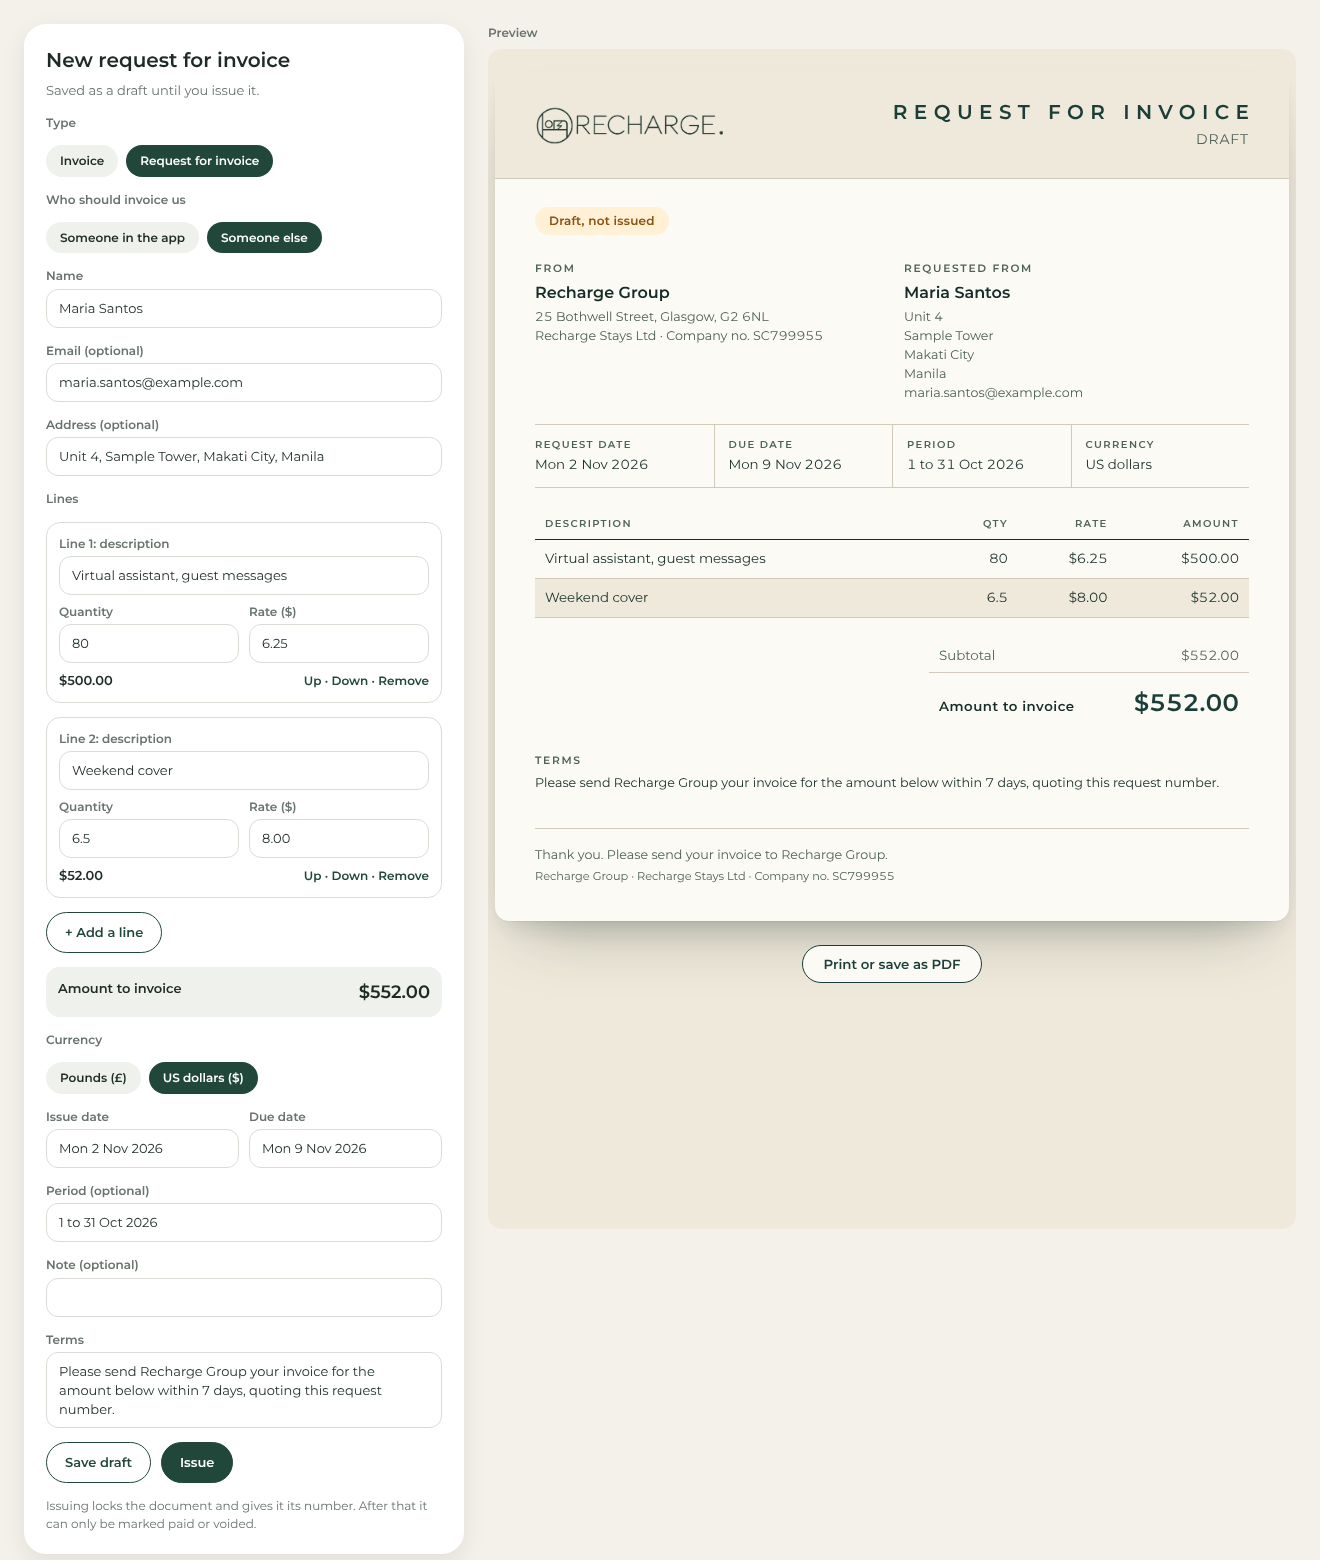
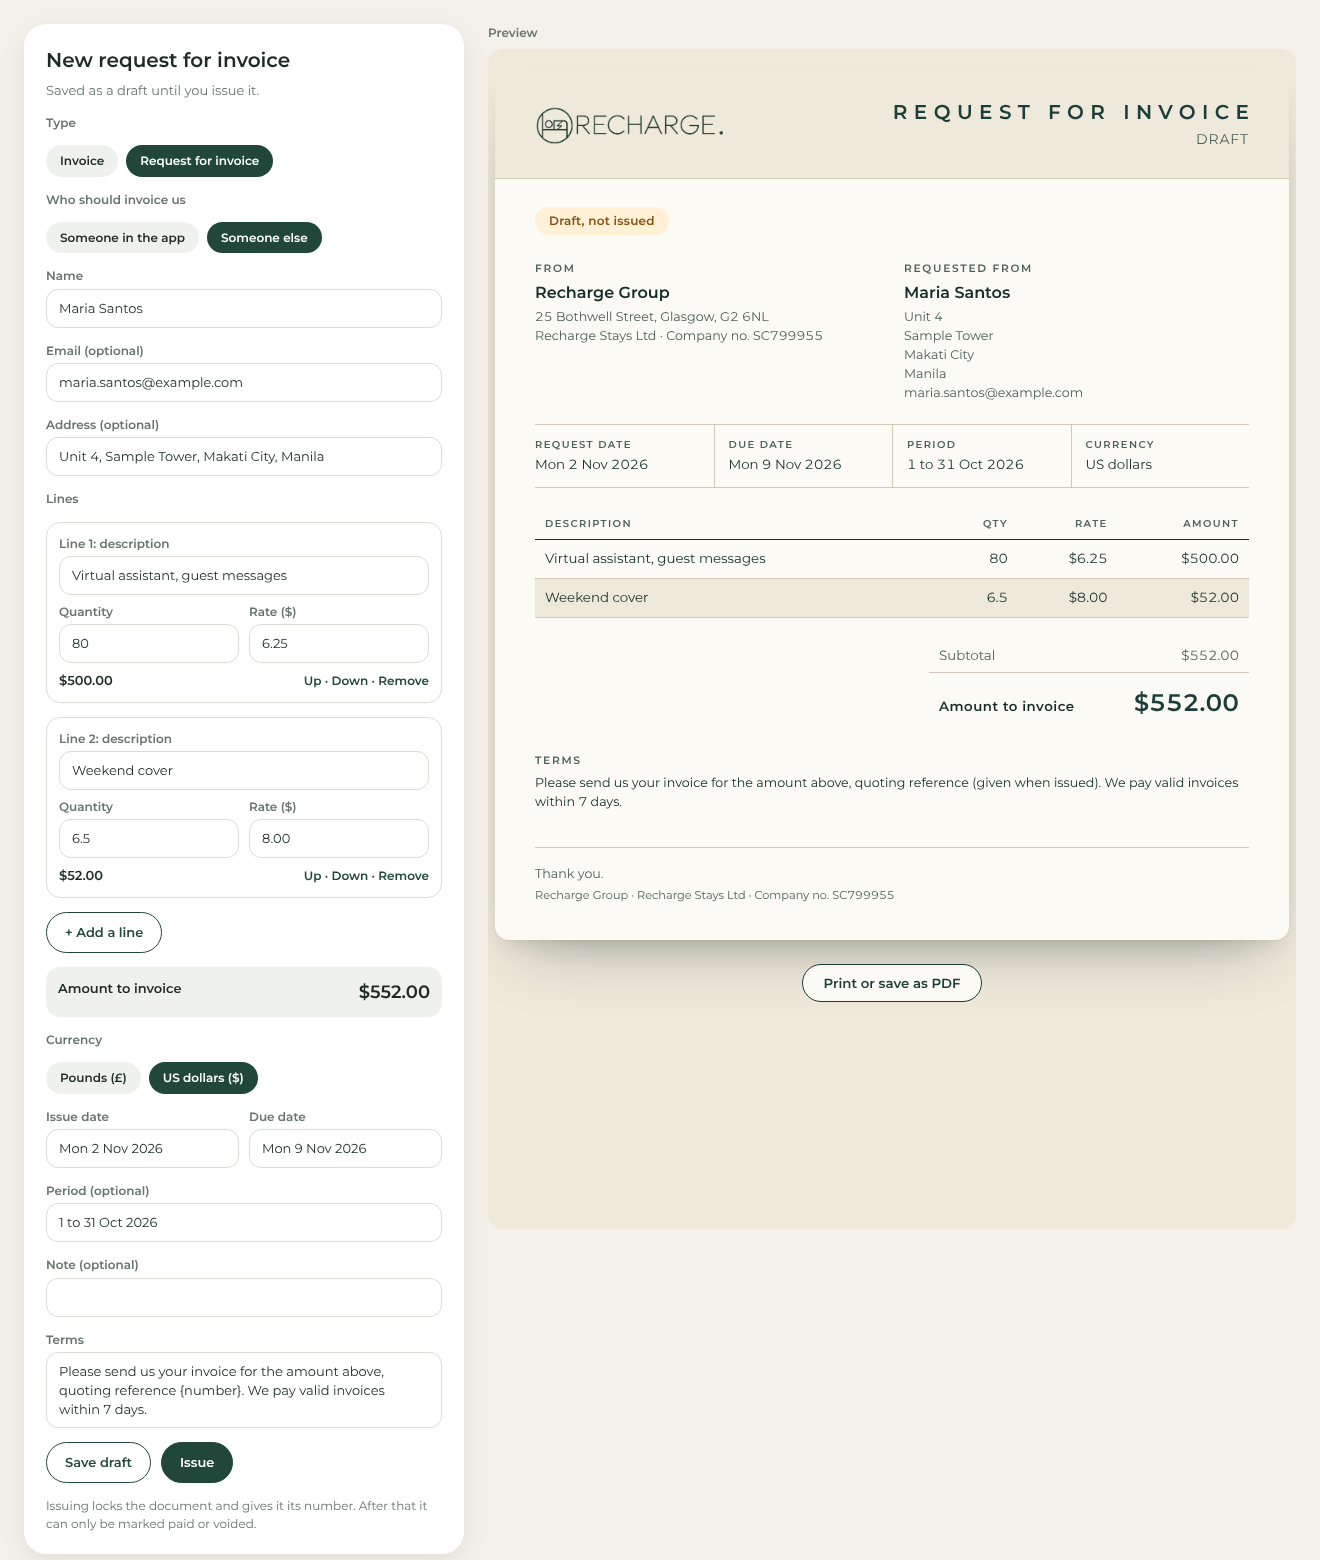
Request for invoice: cleaner wording and one RC-RFI counter
- A maker request for invoice uses the cleaner requests' terms exactly
  (REQUEST_TERMS from lib/cleaner-invoices.ts), with its own number; a
  draft reads "(given when issued)". The thanks line is just "Thank you."
- RC-RFI numbers for maker requests come from the cleaners' counter,
  private.workspace_cleaner_invoice_numbers (20261022000000, unchanged),
  so the two can never collide. RC-INV keeps the maker's counter. TODO removed.
- DB test: maker, cleaner run, maker in the same year get consecutive,
  distinct RC-RFI numbers from one counter.
- lib/cleaner-invoices.ts RECHARGE_PARTY.name reads groupTradingName.
- Re-rendered the request and maker samples.

Claude-Session: https://claude.ai/code/session_01XFR6s8y4AHbjtTG2xH7Fgh

diff --git a/lib/recharge-invoice.ts b/lib/recharge-invoice.ts
@@ -1,4 +1,5 @@
 import { brandCanvas, darkBrandCanvas, depthTokens, designTokens } from './design-tokens';
+import { REQUEST_TERMS } from './cleaner-invoices';
 import { groupTradingName, legalDetails } from './legal-details';
 import type { ReceivableItem } from './tracker-receivable';
 
@@ -7,7 +8,8 @@ import type { ReceivableItem } from './tracker-receivable';
 // It shares its look with the cleaner invoice in lib/cleaner-invoices.ts (invoiceHtml, INVOICE_PAPER, logoBox): cream header
 // band with the RECHARGE logo, spaced INVOICE with the number under it, From and Billed to, a row of key facts, a striped
 // table, subtotal and a big total, a PAID stamp, a footer. The CSS is a copy on purpose: that file is being reworked
-// separately, so nothing here imports from it. Change both together to keep them alike.
+// separately, so the only thing taken from it is the request terms (REQUEST_TERMS), worded once for both kinds of request.
+// Change both together to keep them alike.
 //
 // Where Recharge bills someone (see the report in migration 20261022100000):
 //  * public.workspace_invoices bills to an owner: onboarding, direct booking, repair (fromWorkspaceInvoice);
@@ -22,11 +24,15 @@ export type DocTone = 'wait' | 'good' | 'paid' | 'bad';
 // Payment is due this many days after the invoice date: the rule the maker uses for its default due date (Lee, 15 Oct 2026)
 // and the cleaner invoices use for theirs. Bills with no due date of their own are shown with this one.
 export const INVOICE_DUE_DAYS = 7;
-// The terms printed on every document, in one place. Lee may replace the words; the documents follow.
+// The terms printed on every document, in one place. Lee may replace the words; the documents follow. A request for invoice
+// uses the cleaner requests' words exactly (lib/cleaner-invoices.ts REQUEST_TERMS). {number} in any terms becomes the
+// document's number when it is drawn; a draft has none yet, so it reads NUMBER_PENDING until it is issued.
 export const DEFAULT_TERMS: Record<DocKind, string> = {
   invoice: `Payment is due within ${INVOICE_DUE_DAYS} days of the invoice date. Please quote the invoice number with your payment.`,
-  request: `Please send ${groupTradingName} your invoice for the amount below within ${INVOICE_DUE_DAYS} days, quoting this request number.`,
+  request: REQUEST_TERMS,
 };
+export const NUMBER_PENDING = '(given when issued)';
+export const termsFor = (terms: string, number?: string | null) => terms.split('{number}').join(number?.trim() || NUMBER_PENDING);
 // Bank details for paying Recharge. Deliberately empty: Lee supplies them separately. While this is null the payment block
 // is left off every document. Fill it as label and value pairs, for example [{ label: 'Sort code', value: '00-00-00' }].
 export type PaymentDetail = { label: string; value: string };
@@ -78,7 +84,7 @@ export type RechargeInvoiceDoc = {
   subtotal: string; adjustments: { label: string; value: string }[]; total: string; totalLabel: 'Total due' | 'Total paid' | 'Balance due' | 'Amount to invoice' | 'Total';
   note: string; terms: string; payment: readonly PaymentDetail[] | null; thanks: string; footer: string;
 };
-const THANKS: Record<DocKind, string> = { invoice: 'Thank you for your business.', request: `Thank you. Please send your invoice to ${groupTradingName}.` };
+const THANKS: Record<DocKind, string> = { invoice: 'Thank you for your business.', request: 'Thank you.' };
 
 export function rechargeInvoiceDoc(i: RechargeInvoice, options: { today?: string; payment?: readonly PaymentDetail[] | null } = {}): RechargeInvoiceDoc {
   const request = i.kind === 'request', money = (m: number) => docMoney(m, i.currency);
@@ -111,7 +117,7 @@ export function rechargeInvoiceDoc(i: RechargeInvoice, options: { today?: string
     facts, showQuantities, rows, empty: 'No lines yet.',
     subtotal: money(subtotalMinor), adjustments: paidSoFar > 0 ? [{ label: 'Paid so far', value: money(-paidSoFar) }] : [],
     total: money(subtotalMinor - paidSoFar), totalLabel,
-    note: i.note?.trim() ?? '', terms: (i.terms ?? DEFAULT_TERMS[i.kind]).trim(), payment: options.payment === undefined ? PAYMENT_DETAILS : options.payment,
+    note: i.note?.trim() ?? '', terms: termsFor((i.terms ?? DEFAULT_TERMS[i.kind]).trim(), i.number), payment: options.payment === undefined ? PAYMENT_DETAILS : options.payment,
     thanks: THANKS[i.kind], footer: `${groupTradingName} · ${legalDetails.legalName} · Company no. ${legalDetails.companyNumber}${i.number ? ' · ' + i.number : ''}`,
   };
 }

diff --git a/lib/cleaner-invoices.ts b/lib/cleaner-invoices.ts
@@ -1,7 +1,7 @@
 import { z } from 'zod';
 import { brandCanvas, darkBrandCanvas, depthTokens, designTokens } from './design-tokens';
 import { formatMoney } from './format';
-import { legalDetails } from './legal-details';
+import { groupTradingName, legalDetails } from './legal-details';
 
 // Requests for invoice (migration 20261022000000). At the end of each pay period (weekly, Monday to Sunday, or monthly)
 // each cleaner's accepted cleans become one request for invoice, RC-RFI-YYYY-NNNN, "To approve": Recharge asks the cleaner
@@ -116,7 +116,7 @@ export const statusLine = (i: Pick<PayInvoice, 'status' | 'paidOn' | 'queried'>)
 // Who the request is from. Lee is confirming which name goes where: this is the one place to change it. The address and
 // the company come from lib/legal-details.ts, never a second copy.
 export const RECHARGE_PARTY = {
-  name: 'Recharge Group',
+  name: groupTradingName,
   lines: [legalDetails.registeredAddress, `${legalDetails.legalName} · Company no. ${legalDetails.companyNumber}`],
 } as const;
 // The terms near the bottom. Lee may replace this text; {number} becomes the request's number. "Within 7 days" is the
